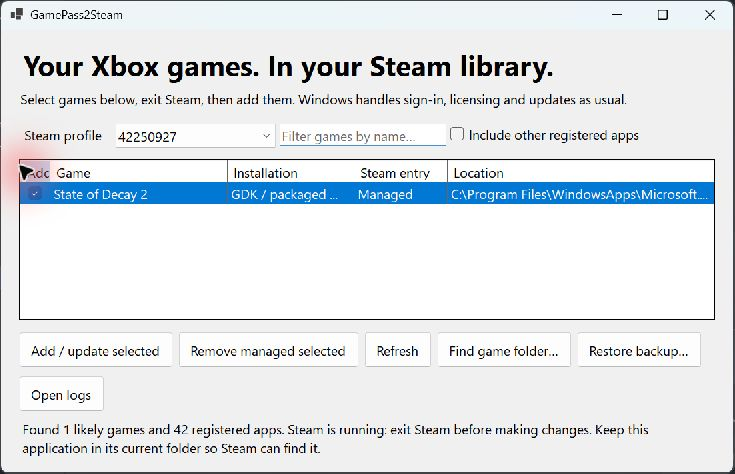
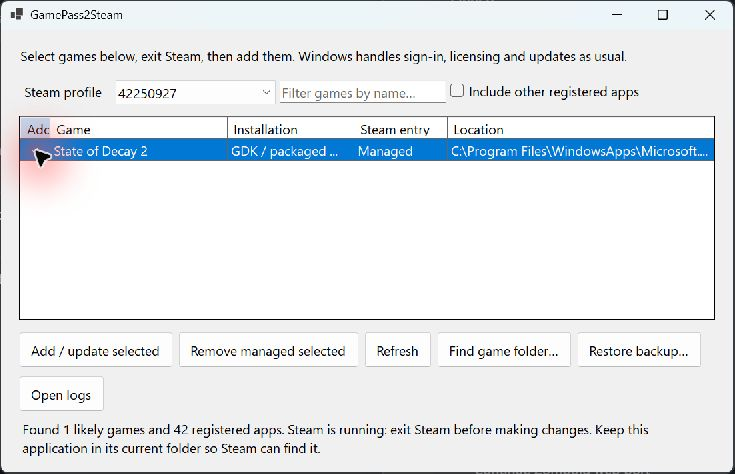
fix: remove redundant heading and reclaim GUI space

Changed region(s): [[0.0, 0.0886, 0.9878, 0.443]]

diff --git a/src/GamePass2Steam/MainForm.cs b/src/GamePass2Steam/MainForm.cs
@@ -20,9 +20,9 @@ public sealed class MainForm : Form
     {
         Text = "GamePass2Steam"; MinimumSize = new Size(850, 540); Size = new Size(1120, 720); StartPosition = FormStartPosition.CenterScreen;
         Font = new Font("Segoe UI", 10); AutoScaleMode = AutoScaleMode.Dpi;
-        var layout = new TableLayoutPanel { Dock = DockStyle.Fill, Padding = new Padding(24), ColumnCount = 1, RowCount = 6 };
-        layout.RowStyles.Add(new RowStyle(SizeType.AutoSize)); layout.RowStyles.Add(new RowStyle(SizeType.AutoSize)); layout.RowStyles.Add(new RowStyle(SizeType.AutoSize)); layout.RowStyles.Add(new RowStyle(SizeType.Percent, 100)); layout.RowStyles.Add(new RowStyle(SizeType.AutoSize)); layout.RowStyles.Add(new RowStyle(SizeType.AutoSize));
-        layout.Controls.Add(new Label { Text = "Your Xbox games. In your Steam library.", Font = new Font("Segoe UI", 21, FontStyle.Bold), AutoSize = true, Margin = new Padding(0, 0, 0, 8) });
+        var layout = new TableLayoutPanel { Dock = DockStyle.Fill, Padding = new Padding(24), ColumnCount = 1, RowCount = 5 };
+        layout.ColumnStyles.Add(new ColumnStyle(SizeType.Percent, 100));
+        layout.RowStyles.Add(new RowStyle(SizeType.AutoSize)); layout.RowStyles.Add(new RowStyle(SizeType.AutoSize)); layout.RowStyles.Add(new RowStyle(SizeType.Percent, 100)); layout.RowStyles.Add(new RowStyle(SizeType.AutoSize)); layout.RowStyles.Add(new RowStyle(SizeType.AutoSize));
         layout.Controls.Add(new Label { Text = "Select games below, exit Steam, then add them. Windows handles sign-in, licensing and updates as usual.", AutoSize = true, Margin = new Padding(0, 0, 0, 18) });
         var filters = new FlowLayoutPanel { AutoSize = true, Dock = DockStyle.Fill, Padding = new Padding(0, 0, 0, 10) };
         filters.Controls.Add(new Label { Text = "Steam profile", AutoSize = true, Padding = new Padding(0, 5, 8, 0) }); filters.Controls.Add(profiles); filters.Controls.Add(search); filters.Controls.Add(allApps); layout.Controls.Add(filters);
